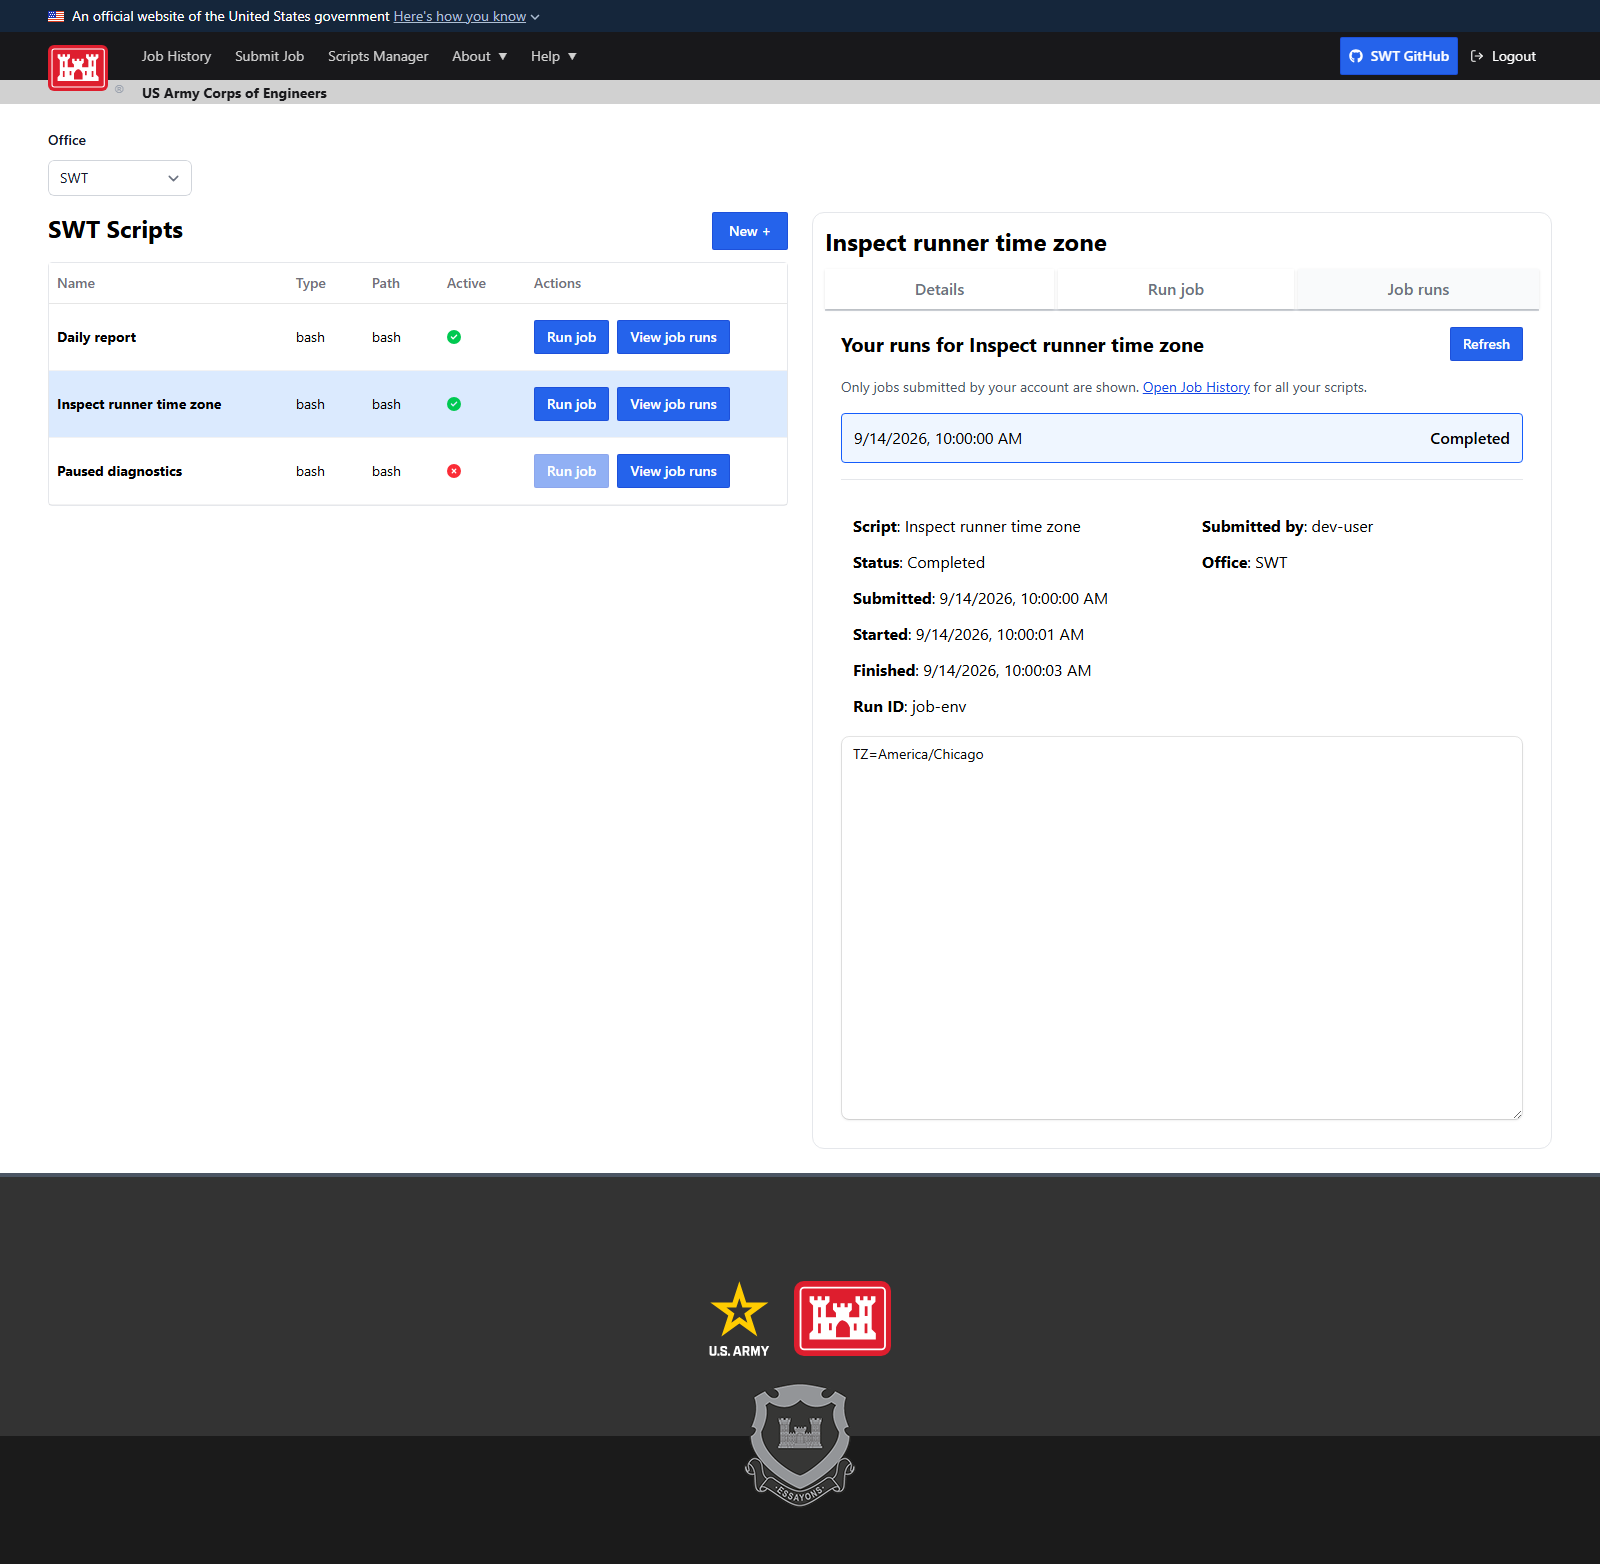
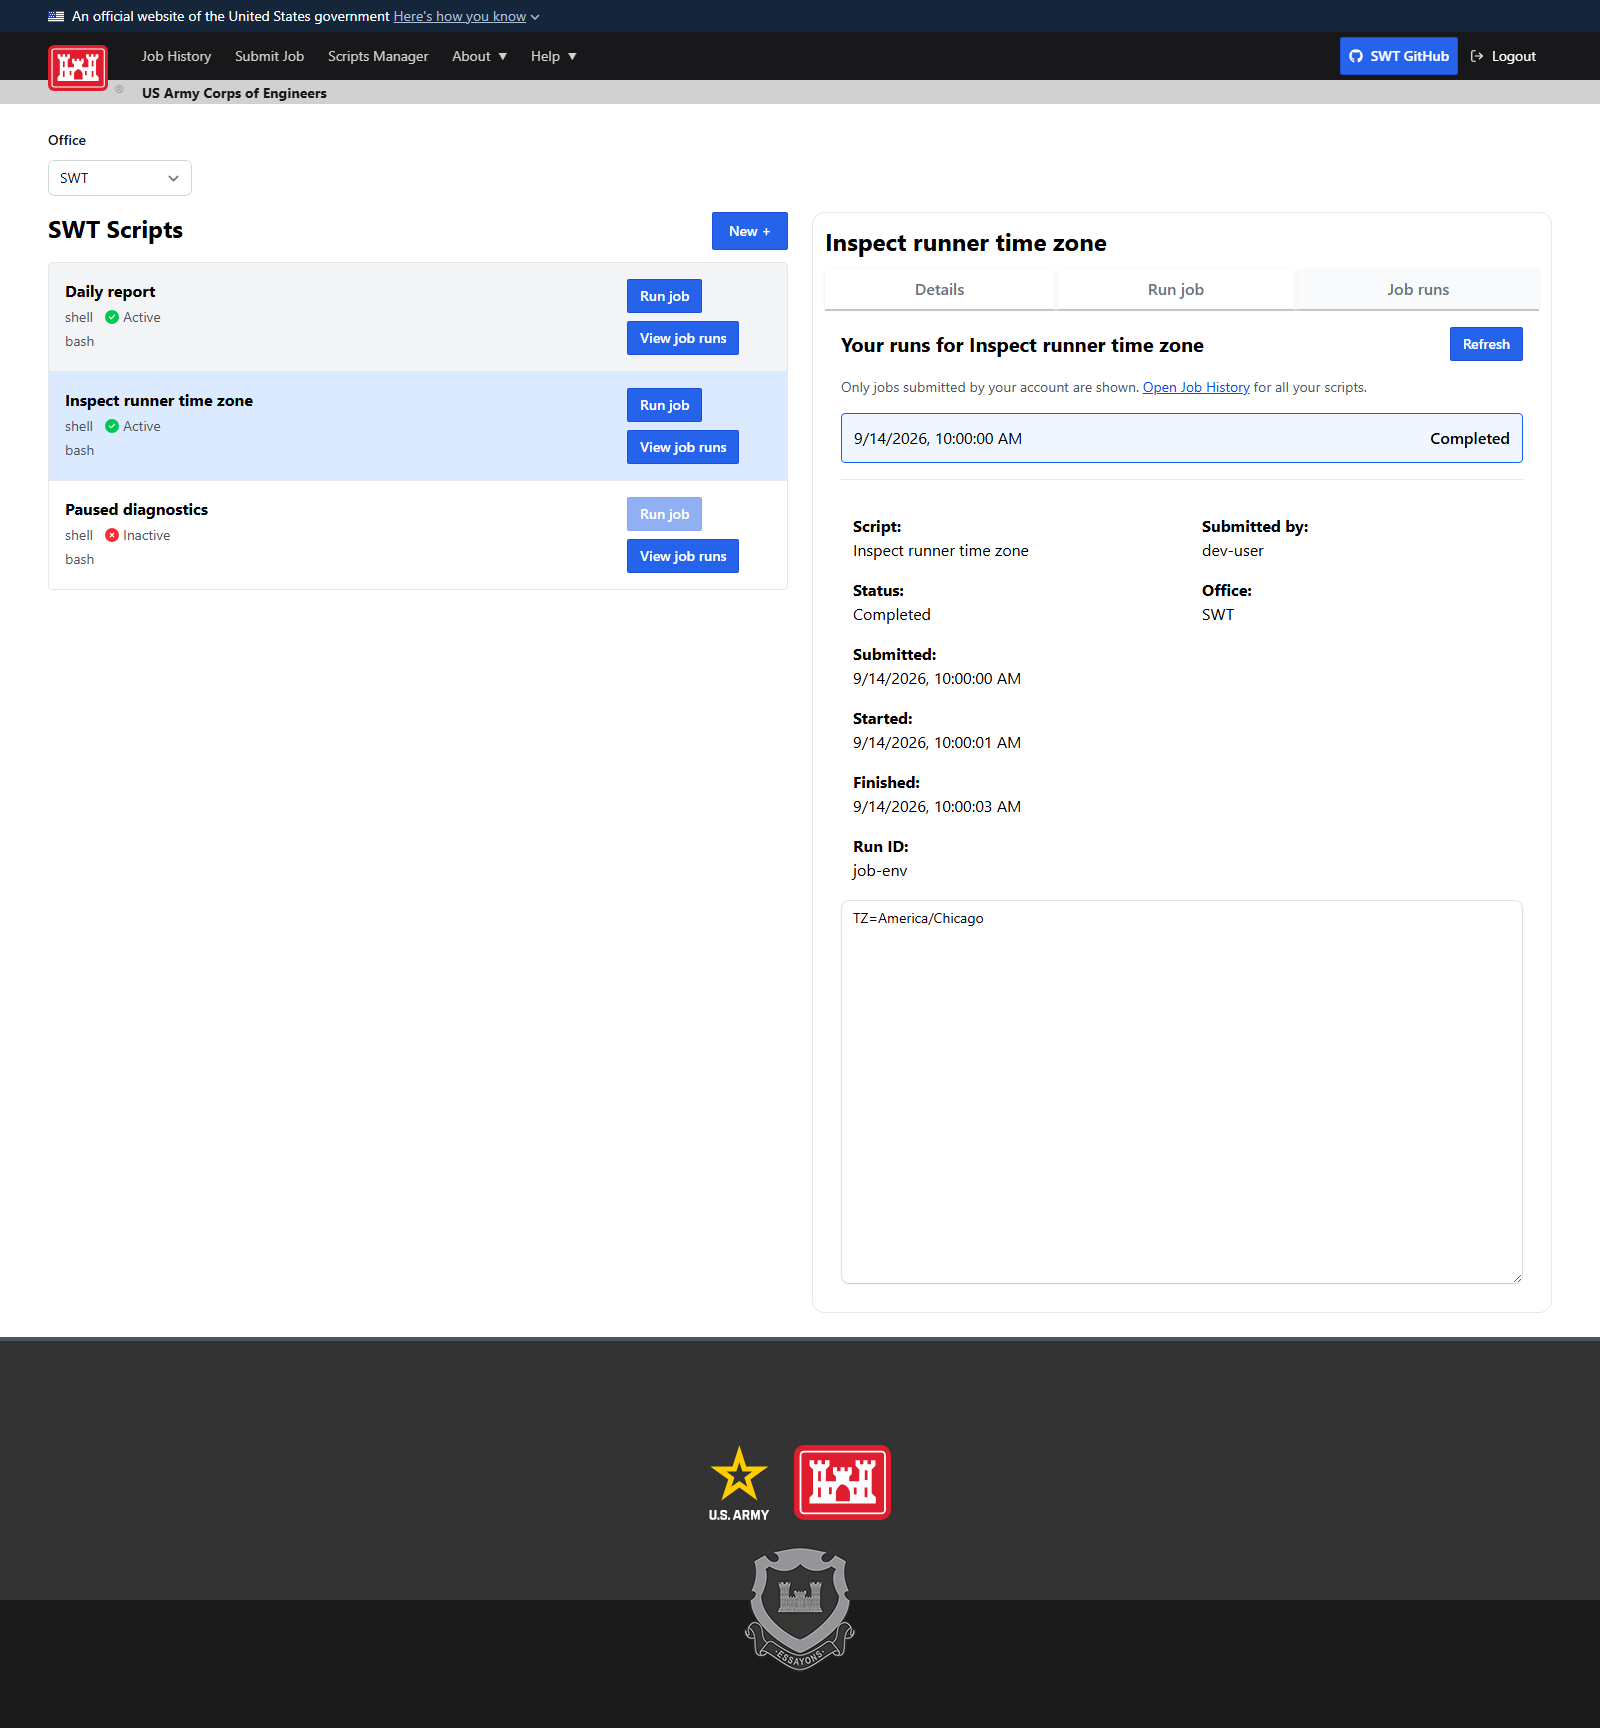
Keep Scripts Manager actions and details readable across screen sizes (#213)
* Fix Scripts Manager layout for long content and narrow screens

* Use Tailwind utilities for responsive script layouts

diff --git a/ui/tests/smoke/script-responsive-layout.spec.ts b/ui/tests/smoke/script-responsive-layout.spec.ts
@@ -1,0 +1,90 @@
+import { expect, test, type Locator } from "@playwright/test";
+import { mkdir } from "node:fs/promises";
+import { join } from "node:path";
+
+const script = {
+  id: "script-metadata", name: "Build Water Supply Metadata", slug: "build-water-supply-metadata",
+  description: "Build water supply metadata for the district.", office: "SWT",
+  executionType: "script", runtime: "java",
+  repoPath: "java-artifacts/BuildWSMetadataViaCDA/BuildWaterSupplyMetadataWithDistrictConfiguration.jar",
+  commandArgs: ["--configuration=" + "district_configuration_".repeat(8)], roles: [], active: true,
+  jobRunners: ["runner-1"], createdTime: "2026-09-14T14:00:00Z", updatedTime: "2026-09-14T14:00:00Z",
+};
+const scripts = [script, { ...script, id: "python", name: "HourlyCorpsHydropowerData2XML.py", runtime: "python", repoPath: "python/HourlyCorpsHydropowerData2XML.py" },
+  { ...script, id: "shell", name: "hourly.sh", runtime: "shell", repoPath: "bin/hourly.sh" },
+  { ...script, id: "failed", name: "StoreTurbineChangesFromXMLWithDistrictConfiguration", runtime: "python", repoPath: "python/StoreTurbineChangesFromXML.py" }];
+
+// Check the actual content boxes, including the scrollable list: document
+// width alone does not catch action buttons clipped inside a narrow panel.
+async function fits(locator: Locator) {
+  for (const element of await locator.all()) {
+    const dimensions = await element.evaluate(el => ({ tag: el.tagName, className: el.className, scroll: el.scrollWidth, client: el.clientWidth }));
+    expect(dimensions.scroll, JSON.stringify(dimensions)).toBeLessThanOrEqual(dimensions.client + 1);
+  }
+}
+
+for (const { width, largeText } of [
+  ...[320, 390, 768, 1024, 1280, 1366, 1440, 1600, 1920].map(width => ({ width, largeText: false })),
+  { width: 1280, largeText: true },
+]) {
+  test(`script actions and run details fit at ${width}px${largeText ? " with enlarged text" : ""}`, async ({ page }) => {
+    const job = {
+      id: "c0402712-808f-4465-805b-2c7057d16f63", scriptId: script.id, scriptName: script.name,
+      office: "SWT", username: "EXAMPLE.CHARLES.ROBERT.1543077719", jobStatus: "Running",
+      createdTime: new Date().toISOString(), runTime: new Date().toISOString(), endTime: null,
+    };
+    await page.route("**/api/**", async route => {
+      const path = new URL(route.request().url()).pathname;
+      if (path.endsWith("/admin-offices")) return route.fulfill({ json: ["SWT"] });
+      if (path.endsWith("/job-runners/default")) return route.fulfill({ json: { id: "runner-1", slug: "batch" } });
+      if (path.endsWith("/scripts")) return route.fulfill({ json: scripts });
+      if (path.endsWith("/jobs")) return route.fulfill({ json: [job, { ...job, id: "failure", scriptId: "failed", jobStatus: "Failed", endTime: new Date().toISOString() }] });
+      if (path.endsWith(`/jobs/${job.id}`)) return route.fulfill({ json: job });
+      return route.fulfill({ json: [] });
+    });
+    await page.setViewportSize({ width, height: 1000 });
+    await page.goto("/events/scripts-manager");
+    if (largeText) await page.addStyleTag({ content: "html { font-size: 200%; }" });
+    await page.getByRole("button", { name: "Login", exact: true }).first().click();
+    await page.getByRole("combobox").selectOption("SWT");
+    const list = page.getByRole("region", { name: "SWT scripts list" });
+    await expect(list.locator("tbody tr")).toHaveCount(scripts.length);
+    await fits(list.locator(".scripts-list-scroll, table, tbody, tbody tr, td"));
+    for (const row of await list.locator("tbody tr").all()) {
+      for (const action of await row.getByRole("button", { name: /^(Run job|View job runs)$/ }).all()) {
+        await action.scrollIntoViewIfNeeded();
+        const box = (await action.boundingBox())!;
+        const container = (await list.boundingBox())!;
+        expect(box.x).toBeGreaterThanOrEqual(container.x);
+        expect(box.x + box.width).toBeLessThanOrEqual(container.x + container.width);
+      }
+    }
+    const row = list.locator("tr").filter({ hasText: script.name });
+    await row.getByRole("button", { name: "Run job", exact: true }).click();
+    await expect(page.getByRole("button", { name: "Submit job", exact: true })).toBeVisible();
+    await fits(page.locator(".script-workspace-panel, .script-workspace-panel pre"));
+    await page.getByRole("tab", { name: "Details", exact: true }).click();
+    await fits(page.locator(".script-view-field, .script-view-field > div"));
+    await row.getByRole("button", { name: `View active run for ${script.name}` }).click();
+    await expect(page.getByRole("region", { name: "Selected job run" })).toContainText(job.username);
+    await fits(page.locator(".script-workspace-panel, .job-detail-fields, .job-detail-fields > span"));
+    // The global header has separate responsive tests. At enlarged root text
+    // size, check this workspace's bounds independently of the header.
+    const workspaceBox = (await page.locator(".scripts-workspace").boundingBox())!;
+    expect(workspaceBox.x + workspaceBox.width).toBeLessThanOrEqual(width);
+    if (!largeText) expect(await page.evaluate(() => document.documentElement.scrollWidth <= innerWidth)).toBe(true);
+    const tabs = await page.getByRole("tab").all();
+    for (let index = 1; index < tabs.length; index++) {
+      const previous = (await tabs[index - 1].boundingBox())!;
+      const current = (await tabs[index].boundingBox())!;
+      expect(current.x >= previous.x + previous.width - 1 || current.y >= previous.y + previous.height - 1).toBe(true);
+    }
+    if (process.env.PR_SCREENSHOT_DIR) {
+      await mkdir(process.env.PR_SCREENSHOT_DIR, { recursive: true });
+      await list.locator(".scripts-list-scroll").evaluate(el => { el.scrollTop = 0; });
+      await page.evaluate(() => window.scrollTo(0, 0));
+      await page.mouse.move(0, 0);
+      await page.screenshot({ path: join(process.env.PR_SCREENSHOT_DIR, `scripts-${width}${largeText ? "-large-text" : ""}.png`), fullPage: true });
+    }
+  });
+}

diff --git a/ui/src/features/scripts-manager/ScriptsList.tsx b/ui/src/features/scripts-manager/ScriptsList.tsx
@@ -1,12 +1,4 @@
-import {
-  Table,
-  TableBody,
-  TableRow,
-  TableHead,
-  TableHeader,
-  TableCell,
-  Button,
-} from "@usace/groundwork";
+import { Button } from "@usace/groundwork";
 import { FaCircleCheck, FaCircleXmark } from "react-icons/fa6";
 import type { Script } from "../scripts-manager/types";
 import type { JobDetails } from "../jobs-list/useJobDetails";
@@ -40,25 +32,14 @@ export const ScriptsList = ({
   jobsUpdatedAt,
 }: ScriptsListProps) => {
   return (
-    <Table
-      overflow
-      stickyHeader
-      overflowHeight="min-h-48 max-h-72 overscroll-contain xl:max-h-[65vh]"
-    >
-      <TableHead>
-        <TableRow>
-          <TableHeader>Name</TableHeader>
-          <TableHeader>Type</TableHeader>
-          <TableHeader>Path</TableHeader>
-          <TableHeader>Active</TableHeader>
-          <TableHeader>Actions</TableHeader>
-        </TableRow>
-      </TableHead>
-      <TableBody>
+    <div className="scripts-list-scroll @container/scripts max-h-[65vh] overflow-y-auto overscroll-contain">
+    <table className="block w-full" aria-label="Scripts">
+      <thead className="sr-only"><tr><th scope="col">Script</th><th scope="col">Actions</th></tr></thead>
+      <tbody className="block w-full">
         {[...scripts]
           .sort((a, b) => a.name.localeCompare(b.name))
           .map((script) => (
-            <TableRow
+            <tr
               key={script.id}
               tabIndex={0}
               aria-selected={script.id === selectedScriptId}
@@ -70,37 +51,34 @@ export const ScriptsList = ({
                   selectScript(script.id);
                 }
               }}
-              className={
+              className={`grid cursor-pointer grid-cols-1 gap-3 border-b border-gray-200 p-4 last:border-b-0 focus-visible:outline-2 focus-visible:-outline-offset-2 focus-visible:outline-blue-600 @min-[34rem]/scripts:grid-cols-[minmax(0,1fr)_9rem] ${
                 script.id === selectedScriptId
-                  ? "cursor-pointer bg-blue-100"
-                  : "cursor-pointer hover:bg-gray-100"
-              }
+                  ? "bg-blue-100"
+                  : "hover:bg-gray-100"
+              }`}
             >
-              <TableCell>
+              <td className="block min-w-0 [overflow-wrap:anywhere]">
                 <span className="font-bold">{script.name}</span>
+                <div className="mt-1 flex flex-wrap items-center gap-x-3 gap-y-1 text-sm text-gray-600">
+                  <span>{script.runtime}</span>
+                  <span className="inline-flex items-center gap-1"><ActiveIcon isActive={script.active} />{script.active ? "Active" : "Inactive"}</span>
+                </div>
+                <span className="mt-1 block text-sm text-gray-600">{script.repoPath}</span>
                 <ScriptRunIndicators
                   jobs={jobs.filter(job => job.scriptId === script.id && job.office === script.office)}
                   now={jobsUpdatedAt} scriptName={script.name}
                   onSelectRun={jobId => selectScript(script.id, 2, jobId)} />
-              </TableCell>
-              <TableCell>
-                {script.executionType === "command"
-                  ? script.repoPath
-                  : script.runtime}
-              </TableCell>
-              <TableCell><span className="block max-w-32 truncate sm:max-w-64" title={script.repoPath}>{script.repoPath}</span></TableCell>
-              <TableCell>
-                <ActiveIcon isActive={script.active} />
-              </TableCell>
-              <TableCell>
+              </td>
+              <td className="block self-center">
                 <div className="flex flex-wrap gap-2" onClick={(event) => event.stopPropagation()}>
                   <Button size="sm" disabled={!script.active} onClick={() => selectScript(script.id, 1)}>Run job</Button>
                   <Button size="sm" onClick={() => selectScript(script.id, 2)}>View job runs</Button>
                 </div>
-              </TableCell>
-            </TableRow>
+              </td>
+            </tr>
           ))}
-      </TableBody>
-    </Table>
+      </tbody>
+    </table>
+    </div>
   );
 };

diff --git a/ui/src/features/jobs-list/JobDetail.tsx b/ui/src/features/jobs-list/JobDetail.tsx
@@ -31,12 +31,12 @@ interface JobDetailProps {
 
 function JobDetail({ job }: JobDetailProps) {
   return (
-    <>
-      <div className="min-w-0 grow grid grid-cols-1 gap-x-4 py-3 sm:grid-cols-2">
+    <div className="@container/job-details min-w-0 grow">
+      <div className="job-detail-fields grid min-w-0 grow grid-cols-1 gap-x-4 gap-y-1 py-3 @min-[32rem]/job-details:grid-cols-2">
         {jobFields.map((field) => {
           const className = wideFields.includes(field)
-            ? "sm:col-span-2"
-            : "col-span-1";
+            ? "col-span-full"
+            : "";
           return (
             <JobDetailField key={field} field={fieldLabels[field] ?? field} className={className}>
               {field === "jobStatus" ? (
@@ -57,7 +57,7 @@ function JobDetail({ job }: JobDetailProps) {
           );
         })}
       </div>
-    </>
+    </div>
   );
 }
 
@@ -71,8 +71,8 @@ const JobDetailField = ({
   className,
   children,
 }: PropsWithChildren<JobDetailFieldProps>) => (
-  <span className={`min-w-0 break-words px-3 py-1.5 ${className}`}>
-    <strong>{field}</strong>: {children}
+  <span className={`min-w-0 [overflow-wrap:anywhere] px-3 py-1.5 ${className}`}>
+    <strong className="block">{field}:</strong> {children}
   </span>
 );
 

diff --git a/ui/src/features/scripts-manager/ScriptsWorkspace.tsx b/ui/src/features/scripts-manager/ScriptsWorkspace.tsx
@@ -120,7 +120,7 @@ export const ScriptsWorkspace = ({ office }: ScriptsWorkspaceProps) => {
     updateScriptMutation.error;
 
   return (
-    <div className={`w-full grid grid-cols-1 gap-6 mt-4 ${scripts.data.length > 0 ? "xl:grid-cols-2" : ""}`}>
+    <div className="scripts-workspace mt-4 grid w-full grid-cols-[repeat(auto-fit,minmax(min(100%,36rem),1fr))] gap-6">
       <div className="min-w-0">
         <header className="flex justify-between">
           <H2>{office.toUpperCase()} Scripts</H2>
@@ -152,7 +152,7 @@ export const ScriptsWorkspace = ({ office }: ScriptsWorkspaceProps) => {
           />
         </div>}
       </div>
-      {scripts.data.length > 0 && <div className="min-w-0 self-start rounded-xl border border-gray-200 bg-white p-3">
+      {scripts.data.length > 0 && <div className="script-workspace-panel @container/script-panel min-w-0 self-start rounded-xl border border-gray-200 bg-white p-3 [overflow-wrap:anywhere]">
       {selectedScript ? <>
         <H2 className="mb-3 break-words">{selectedScript.name}</H2>
         <Tabs key={`${selectedScript.id}:${panelTab.revision}`} defaultIndex={panelTab.index} fill tabs={[

diff --git a/ui/src/features/scripts-manager/ViewField.tsx b/ui/src/features/scripts-manager/ViewField.tsx
@@ -21,7 +21,7 @@ export const ViewField = ({
   children,
 }: PropsWithChildren<ViewFieldProps>) => {
   return (
-    <div className="grid min-w-0 grid-cols-[120px_minmax(0,1fr)] gap-6">
+    <div className="script-view-field min-w-0 grid gap-1 [overflow-wrap:anywhere] @min-[30rem]/script-panel:grid-cols-[120px_minmax(0,1fr)] @min-[30rem]/script-panel:gap-6">
       <ViewLabel>{label}</ViewLabel>
       <div className="min-w-0">{children}</div>
     </div>

diff --git a/ui/src/features/scripts-manager/ScriptView.tsx b/ui/src/features/scripts-manager/ScriptView.tsx
@@ -38,7 +38,7 @@ export const ScriptView = ({ script, onEdit }: ScriptViewProps) => {
                 : "GitHub Repo Path"
             }
           >
-            <span className="block truncate" title={script.repoPath}>{script.repoPath}</span>
+            <span className="block [overflow-wrap:anywhere]">{script.repoPath}</span>
           </ViewField>
           <ViewField label="Source">
             {script.executionType === "command"

diff --git a/docs/script-manager.md b/docs/script-manager.md
@@ -9,6 +9,24 @@
    **Refresh** reloads the list. **Job History** shows your runs across all scripts.
 
 The Groundwork tabs keep details, submission, and run output in the selected script's workspace.
+Each row groups the script name, runtime, active state, and full path. Actions appear beside
+that information when space permits and below it on smaller screens. The selected script
+appears beside the list on wide screens and below it on narrower screens. Long paths and
+run details wrap so the action buttons remain reachable without horizontal scrolling.
+
+<details>
+<summary>Wide-screen and phone layouts</summary>
+
+On a wide screen, the script list and selected run share the workspace:
+
+![Scripts Manager at 1366 pixels with long names and paths](../ui/public/about/scripts-manager-desktop.png)
+
+On a phone, scroll the script list to choose a script, then scroll down to its tabs:
+
+<img src="../ui/public/about/scripts-manager-mobile.png" alt="Scripts Manager at 390 pixels with stacked actions and run details" width="390" />
+
+</details>
+
 Script rows show a spinner for your queued or running jobs and a warning for your most recent
 failure within the past 24 hours. Click either indicator to open that exact run in **Job runs**.
 Running jobs also show spinners in the run list. The manager refreshes run status every five
@@ -55,3 +73,8 @@ Capture updates with `PR_SCREENSHOT_DIR` set while running
 definitions and output; these images demonstrate the UI, not an AWS execution.
 Keep PR-only screenshots outside the repository and copy only the intended documentation
 images into `ui/public/about/`.
+
+`ui/tests/smoke/script-responsive-layout.spec.ts` checks long names, paths, arguments,
+and usernames at nine widths from 320 to 1920 pixels, plus 200% text size. It checks
+the list and individual content boxes for overflow, verifies action-button bounds,
+and exercises all three tabs. Set `PR_SCREENSHOT_DIR` to capture each layout.
